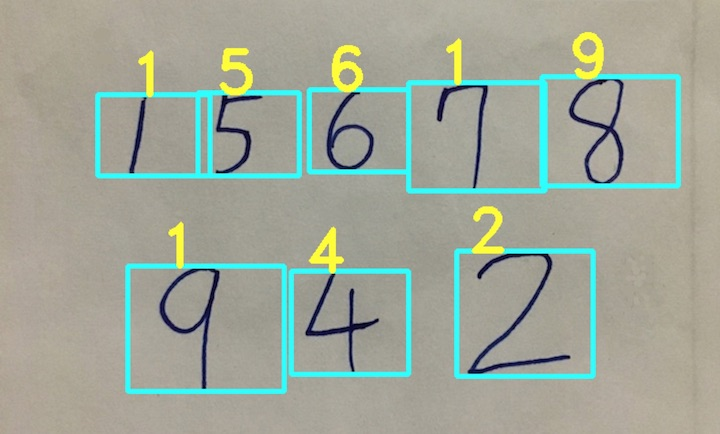
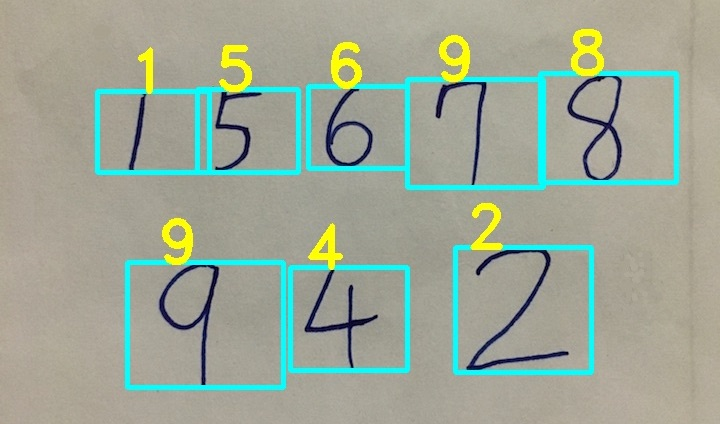
improve the result of prediction

diff --git a/UseResult.py b/UseResult.py
@@ -31,7 +31,7 @@ for (x,y,w,h) in rects:
     squareImage[(length-h)/2:(length-h)/2+h,(length-w)/2:(length-w)/2+w]=roi
     # Resize the square mat
     squareImage = cv2.resize(squareImage, (20, 20))
-    squareImage = cv2.dilate(squareImage, (9, 9))
+    squareImage = cv2.dilate(squareImage, None)
     #Prediction the square mat
     result = clf.predict(squareImage.flatten().reshape(1,-1))
     cv2.putText(im, str(result[0]), (x,y),cv2.FONT_HERSHEY_DUPLEX, 2, (0, 255, 255), 3)
